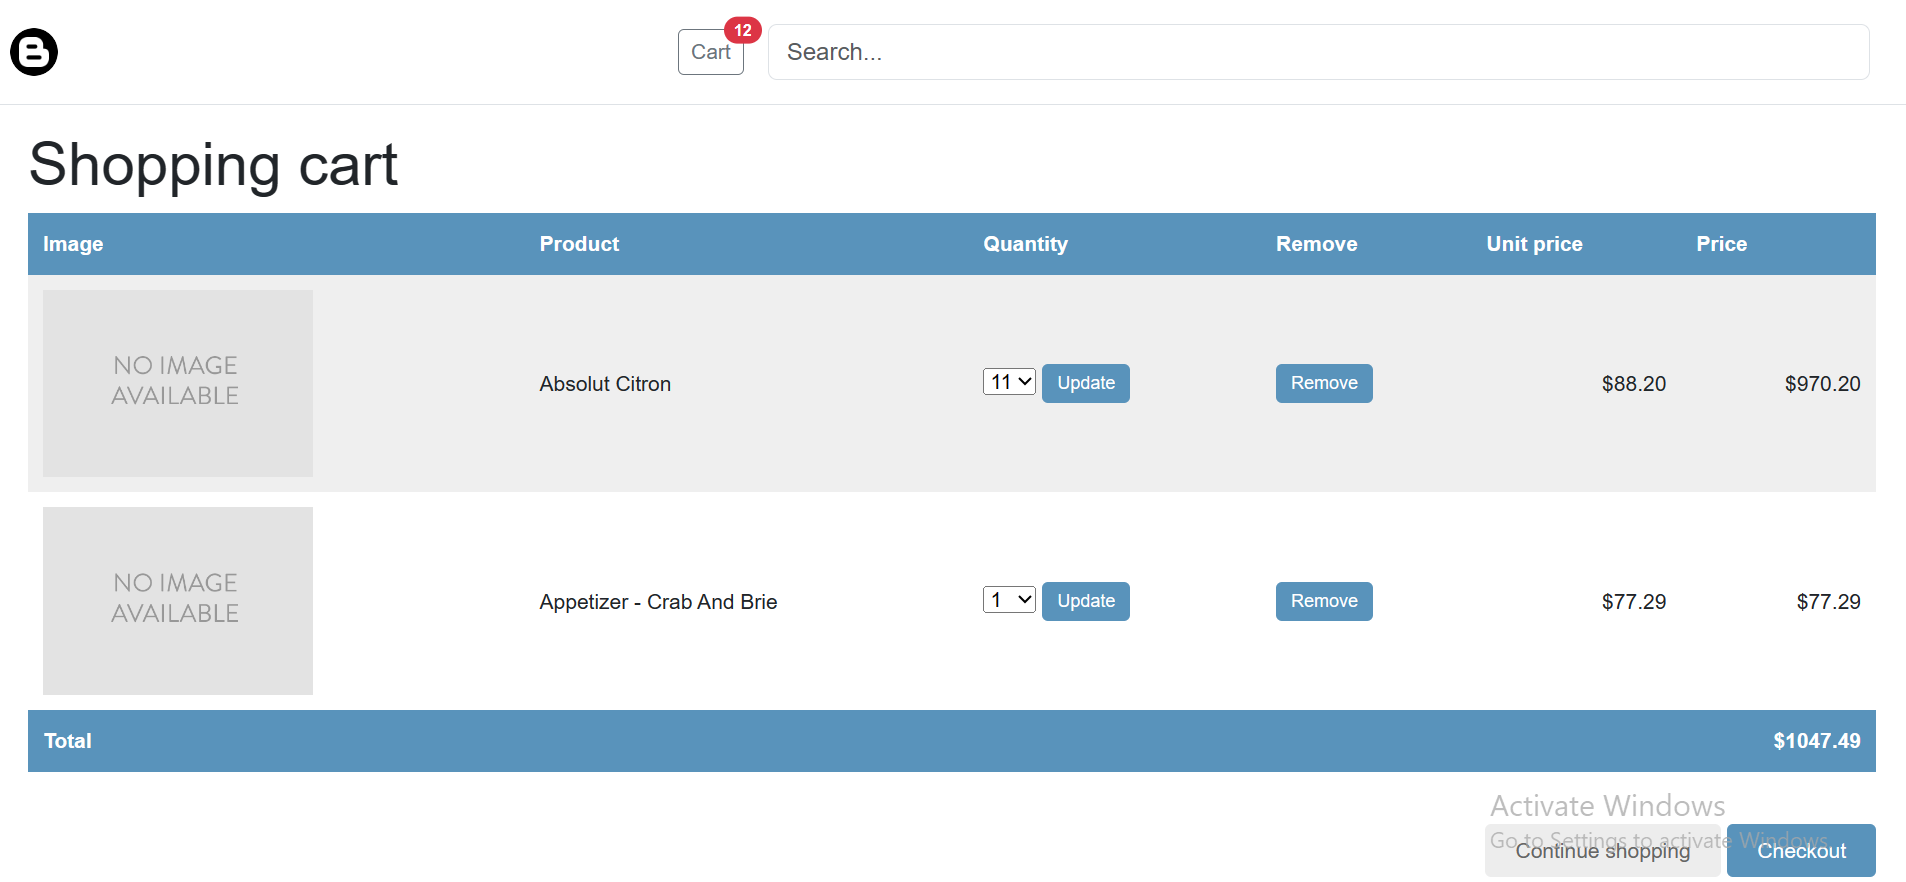
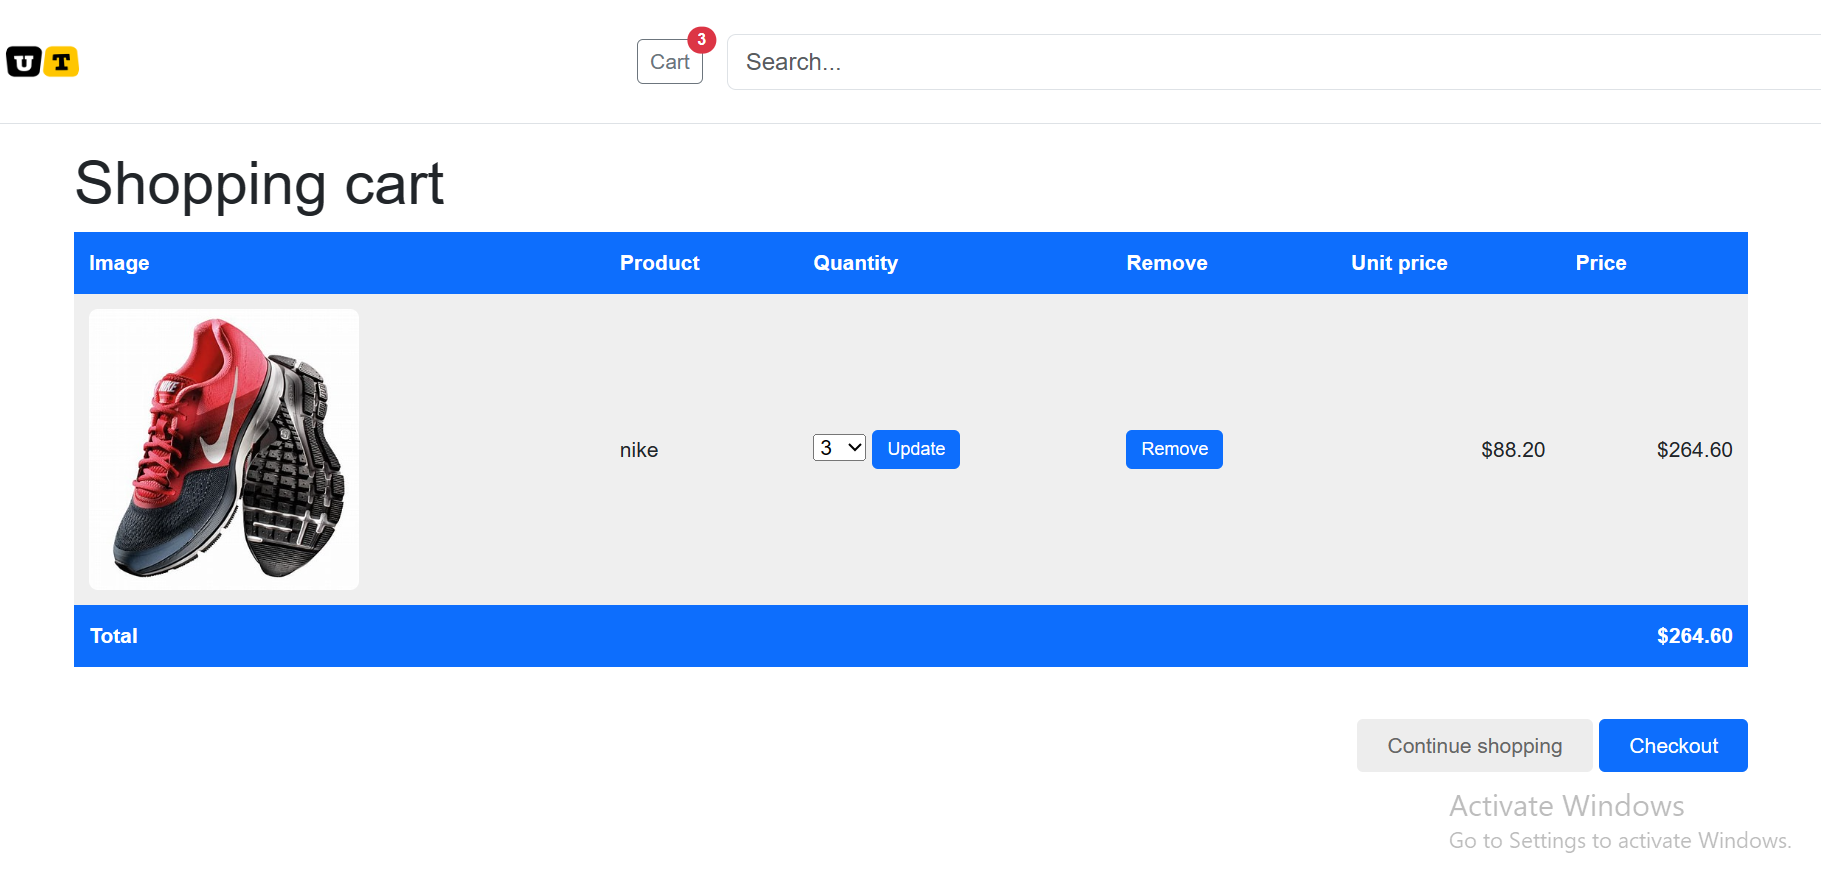
getting images

diff --git a/templates/store/product/detail.html b/templates/store/product/detail.html
@@ -3,13 +3,13 @@
 {% block title %} {{ product.title }} {% endblock %}
 {% block content %}
  <div class="product-detail">
-    <img src="{% if product.image %}{{ product.image.url }}{% else %}
-    {% static 'img/no_image.png' %}{% endif %}">
+    {% with image=product.images.all|first %}
+      <img class="rounded" src="{% if image %}{{ image.image.url }}{% else %}
+                                {% static 'img/no_image.png' %}{% endif %}">
+    {% endwith %}
     <h1>{{ product.title }}</h1>
     <h2>
-    <a href="{{ product.collection.get_absolute_url }}">
-    {{ product.collection }}
-    </a>
+      <a href="{{ product.collection.get_absolute_url }}"> {{ product.collection }} </a>
     </h2>
     <p class="price">${{ product.unit_price }}</p>
     <form action="{% url 'store:cart_add' product.id %}" method="post">
@@ -18,5 +18,12 @@
       <button class="btn btn-sm btn-primary" type="submit"> Add to cart </button>
     </form>
     {{ product.description|linebreaks }}
- </div>
+  </div>
+  <div class="row" data-bs-spy="scroll">
+    {% for image in product.images.all %}
+    <div class="col-2 col-lg-1">
+      <img src="{{image.image.url}}" class="img-thumbnail img-fluid img-thumbnail h-75 w-100" alt="{{product.title}}">
+    </div>
+    {% endfor %}
+  </div>
 {% endblock %}

diff --git a/templates/store/product/list.html b/templates/store/product/list.html
@@ -27,7 +27,11 @@
             {% for product in products %}
                 <div class="col-6 col-lg-4 col-xl-3">
                     <a href="{{ product.get_absolute_url }}">
-                    <img  class="img-fluid" src="{% if product.image %}{{ product.image.url }}{% else %}{% static 'img/no_image.png' %}{% endif %}">
+
+                    {% with image=product.images.all|first %}
+                        <img class="rounded img-fluid img-thumbnail h-75 w-100" src="{% if image %}{{ image.image.url }}{% else %}
+                        {% static 'img/no_image.png' %}{% endif %}">
+                    {% endwith %}
                     </a>
                     <div>
                         <a href="{{ product.get_absolute_url }}">{{ product.title }}</a>

diff --git a/templates/_header.html b/templates/_header.html
@@ -2,8 +2,8 @@
 <header class="py-3 mb-3 border-bottom">
   <div class="container-fluid d-grid gap-3 align-items-center" style="grid-template-columns: 1fr 2fr;">
     
-    <a href="{% url 'store:product_list' %}" class="d-flex align-items-center col-lg-4 mb-2 mb-lg-0 link-body-emphasis text-decoration-none">
-        <img src="{% static 'img/blog.png' %}" alt="mdo" width="32" height="32" class="rounded-circle">
+    <a href="{% url 'store:product_list' %}" class="d-flex align-items-center col-lg-4 ms-4 link-body-emphasis text-decoration-none">
+        <img src="{% static 'img/icon.png' %}" alt="mdo" width="50" height="50" class="rounded-circle">
     </a>
 
     <div class="d-flex align-items-center">

diff --git a/templates/payment/process.html b/templates/payment/process.html
@@ -17,8 +17,10 @@
         {% for item in order.items.all %}
             <tr class="row{% cycle '1' '2' %}">
             <td>
-            <img src="{% if item.product.image %}{{ item.product.image.url }}
-            {% else %}{% static 'img/no_image.png' %}{% endif %}">
+                {% with image=item.product.images.all|first %}
+                <img class="rounded" src="{% if image %}{{ image.image.url }}{% else %}
+                                          {% static 'img/no_image.png' %}{% endif %}">
+                {% endwith %}
             </td>
             <td>{{ item.product.title }}</td>
             <td class="num">${{ item.price }}</td>

diff --git a/templates/store/cart/detail.html b/templates/store/cart/detail.html
@@ -22,8 +22,10 @@
         <tr>
         <td>
             <a href="{{ product.get_absolute_url }}">
-            <img src="{% if product.image %}{{ product.image.url }}
-            {% else %}{% static 'img/no_image.png' %}{% endif %}">
+                {% with image=product.images.all|first %}
+                <img class="rounded" src="{% if image %}{{ image.image.url }}{% else %}
+                                          {% static 'img/no_image.png' %}{% endif %}">
+                {% endwith %}
             </a>
         </td>
         <td>{{ product.title }}</td>

diff --git a/templates/_base.html b/templates/_base.html
@@ -12,7 +12,7 @@
   </head>
   <body>
     {% include '_header.html' %}
-    <div class="container">
+    <div class="container-lg">
       {% block content %} {% endblock content %}
     </div>
   </body>

diff --git a/store/models.py b/store/models.py
@@ -14,11 +14,6 @@ class ProductAvailableManager(models.Manager):
     def get_queryset(self) -> QuerySet:
         return super().get_queryset().filter(inventory__gte=1)
 
-class Promotion(models.Model):
-    description = models.CharField(max_length=255)
-    discount = models.FloatField()
-
-
 class Collection(models.Model):
     title = models.CharField(max_length=255)
     slug = models.SlugField(max_length=255,unique=True,null=True,blank=True)
@@ -57,11 +52,9 @@ class Product(models.Model):
     last_update = models.DateTimeField(auto_now=True)
     collection = models.ForeignKey(
         Collection, on_delete=models.PROTECT, related_name='products')
-    promotions = models.ManyToManyField(Promotion, blank=True)
 
     objects = models.Manager()
     available = ProductAvailableManager()
-
 
     def __str__(self) -> str:
         return self.title
@@ -73,8 +66,6 @@ class Product(models.Model):
         if not self.slug:
             self.slug = slugify(self.title)
         super().save(*args, **kwargs)
-
-
 
     class Meta:
         ordering = ['title']
@@ -136,10 +127,3 @@ class OrderItem(models.Model):
     def get_cost(self):
         return self.price * self.quantity
 
-
-
-class Review(models.Model):
-    product = models.ForeignKey( Product, on_delete=models.CASCADE, related_name='reviews')
-    name = models.CharField(max_length=255)
-    description = models.TextField()
-    date = models.DateField(auto_now_add=True)

diff --git a/store/migrations/0001_initial.py b/store/migrations/0001_initial.py
@@ -1,4 +1,4 @@
-# Generated by Django 4.2.1 on 2023-08-14 18:03
+# Generated by Django 4.2.1 on 2023-08-15 16:39
 
 import django.core.validators
 from django.db import migrations, models
@@ -59,7 +59,19 @@ class Migration(migrations.Migration):
                 ("city", models.CharField(max_length=100)),
                 ("created", models.DateTimeField(auto_now_add=True)),
                 ("updated", models.DateTimeField(auto_now=True)),
-                ("paid", models.BooleanField(default=False)),
+                (
+                    "paid",
+                    models.CharField(
+                        choices=[
+                            ("PD", "Pending"),
+                            ("SC", "Success"),
+                            ("FA", "Failed"),
+                        ],
+                        default="PD",
+                        max_length=2,
+                    ),
+                ),
+                ("stripe_id", models.CharField(blank=True, max_length=250)),
             ],
             options={
                 "ordering": ["-created"],

diff --git a/store/migrations/0002_remove_review_product_remove_product_promotions_and_more.py b/store/migrations/0002_remove_review_product_remove_product_promotions_and_more.py
@@ -1,0 +1,27 @@
+# Generated by Django 4.2.1 on 2023-08-15 16:41
+
+from django.db import migrations
+
+
+class Migration(migrations.Migration):
+
+    dependencies = [
+        ("store", "0001_initial"),
+    ]
+
+    operations = [
+        migrations.RemoveField(
+            model_name="review",
+            name="product",
+        ),
+        migrations.RemoveField(
+            model_name="product",
+            name="promotions",
+        ),
+        migrations.DeleteModel(
+            name="Promotion",
+        ),
+        migrations.DeleteModel(
+            name="Review",
+        ),
+    ]

diff --git a/django_project/settings.py b/django_project/settings.py
@@ -122,7 +122,7 @@ STATIC_ROOT = BASE_DIR / "staticfiles"
 STATICFILES_STORAGE = "django.contrib.staticfiles.storage.StaticFilesStorage"
 
 MEDIA_URL = "/media/"
-MEDIA_ROOT = BASE_DIR / "media"
+MEDIA_ROOT = BASE_DIR / "media/"
 
 # Default primary key field type
 # https://docs.djangoproject.com/en/4.2/ref/settings/#default-auto-field

diff --git a/store/forms.py b/store/forms.py
@@ -2,7 +2,7 @@ from django import forms
 
 from store.models import Order
 
-PRODUCT_QUANTITY_CHOICES = [(i,str(i)) for i in range(21)]
+PRODUCT_QUANTITY_CHOICES = [(i,str(i)) for i in range(1,21)]
 
 class CartAddProductForm(forms.Form):
     quantity = forms.TypedChoiceField(coerce=int,initial=1, choices=PRODUCT_QUANTITY_CHOICES)
